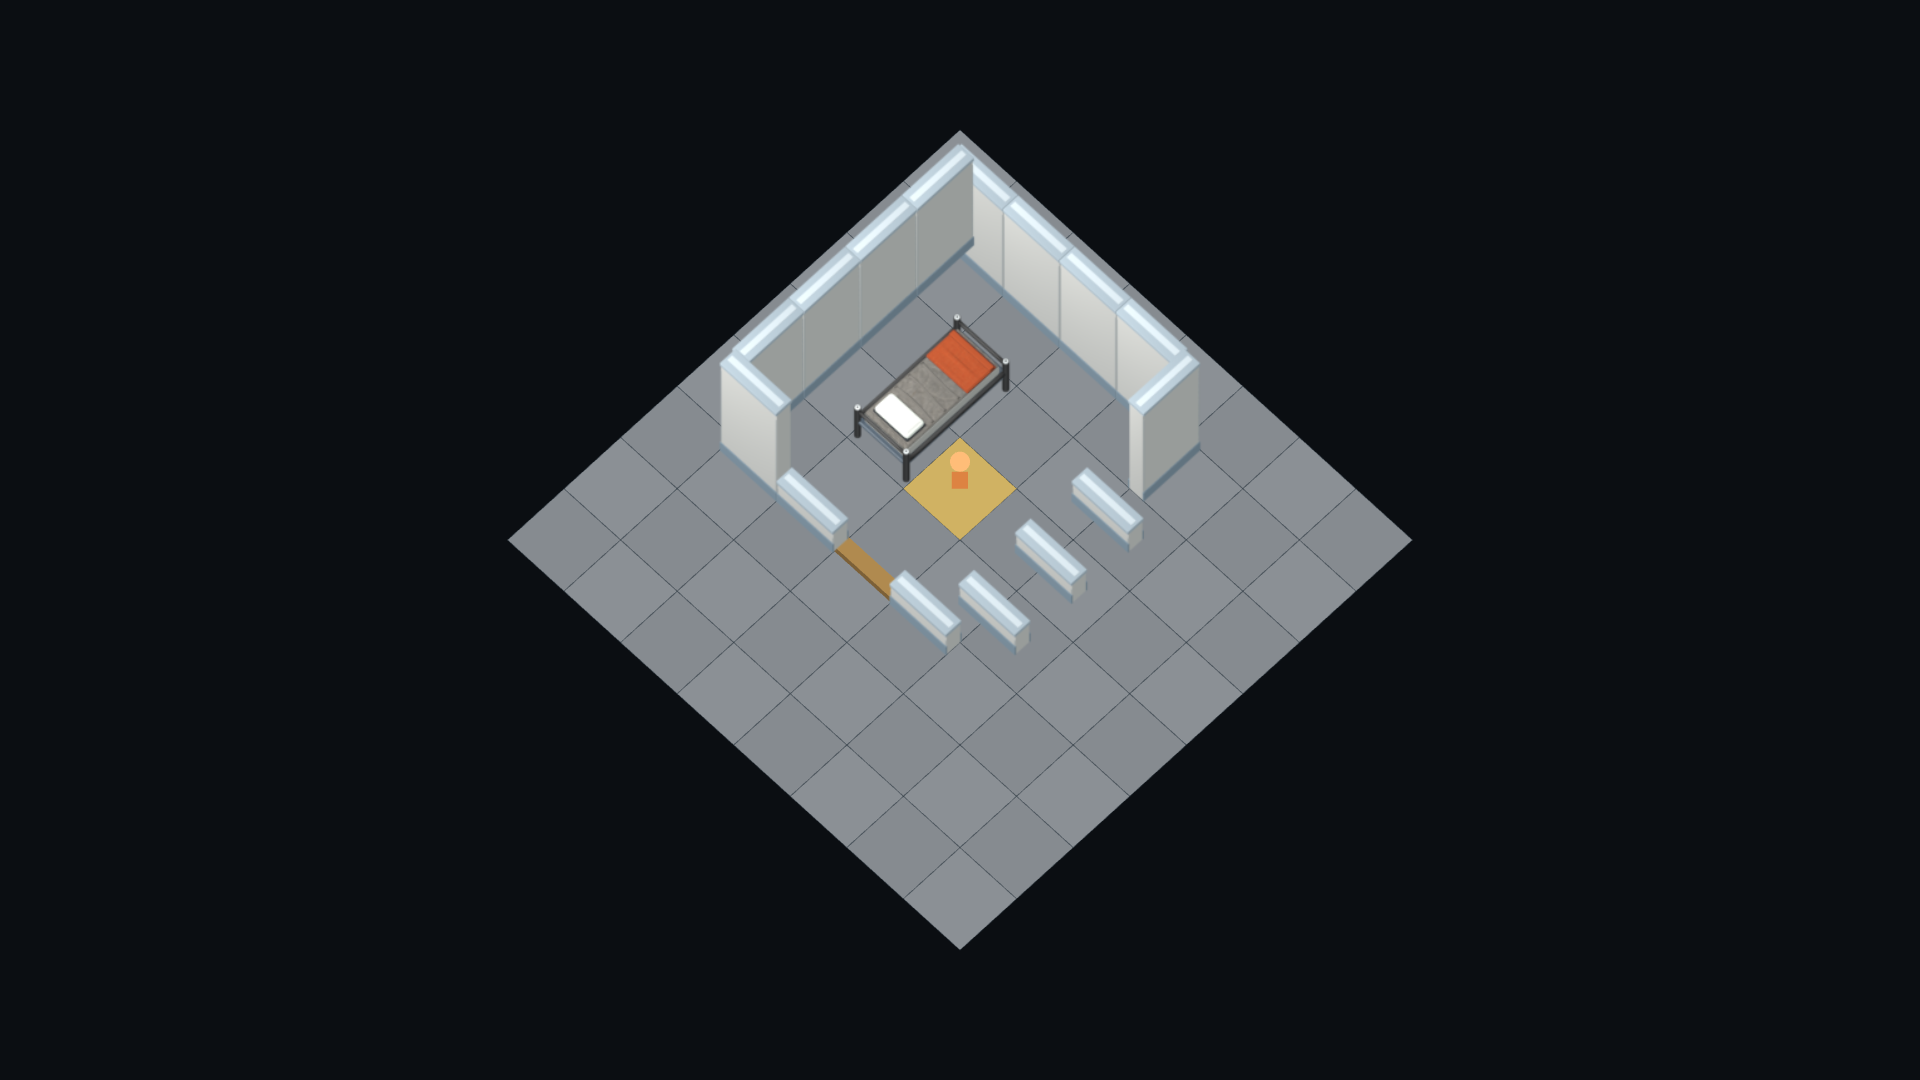
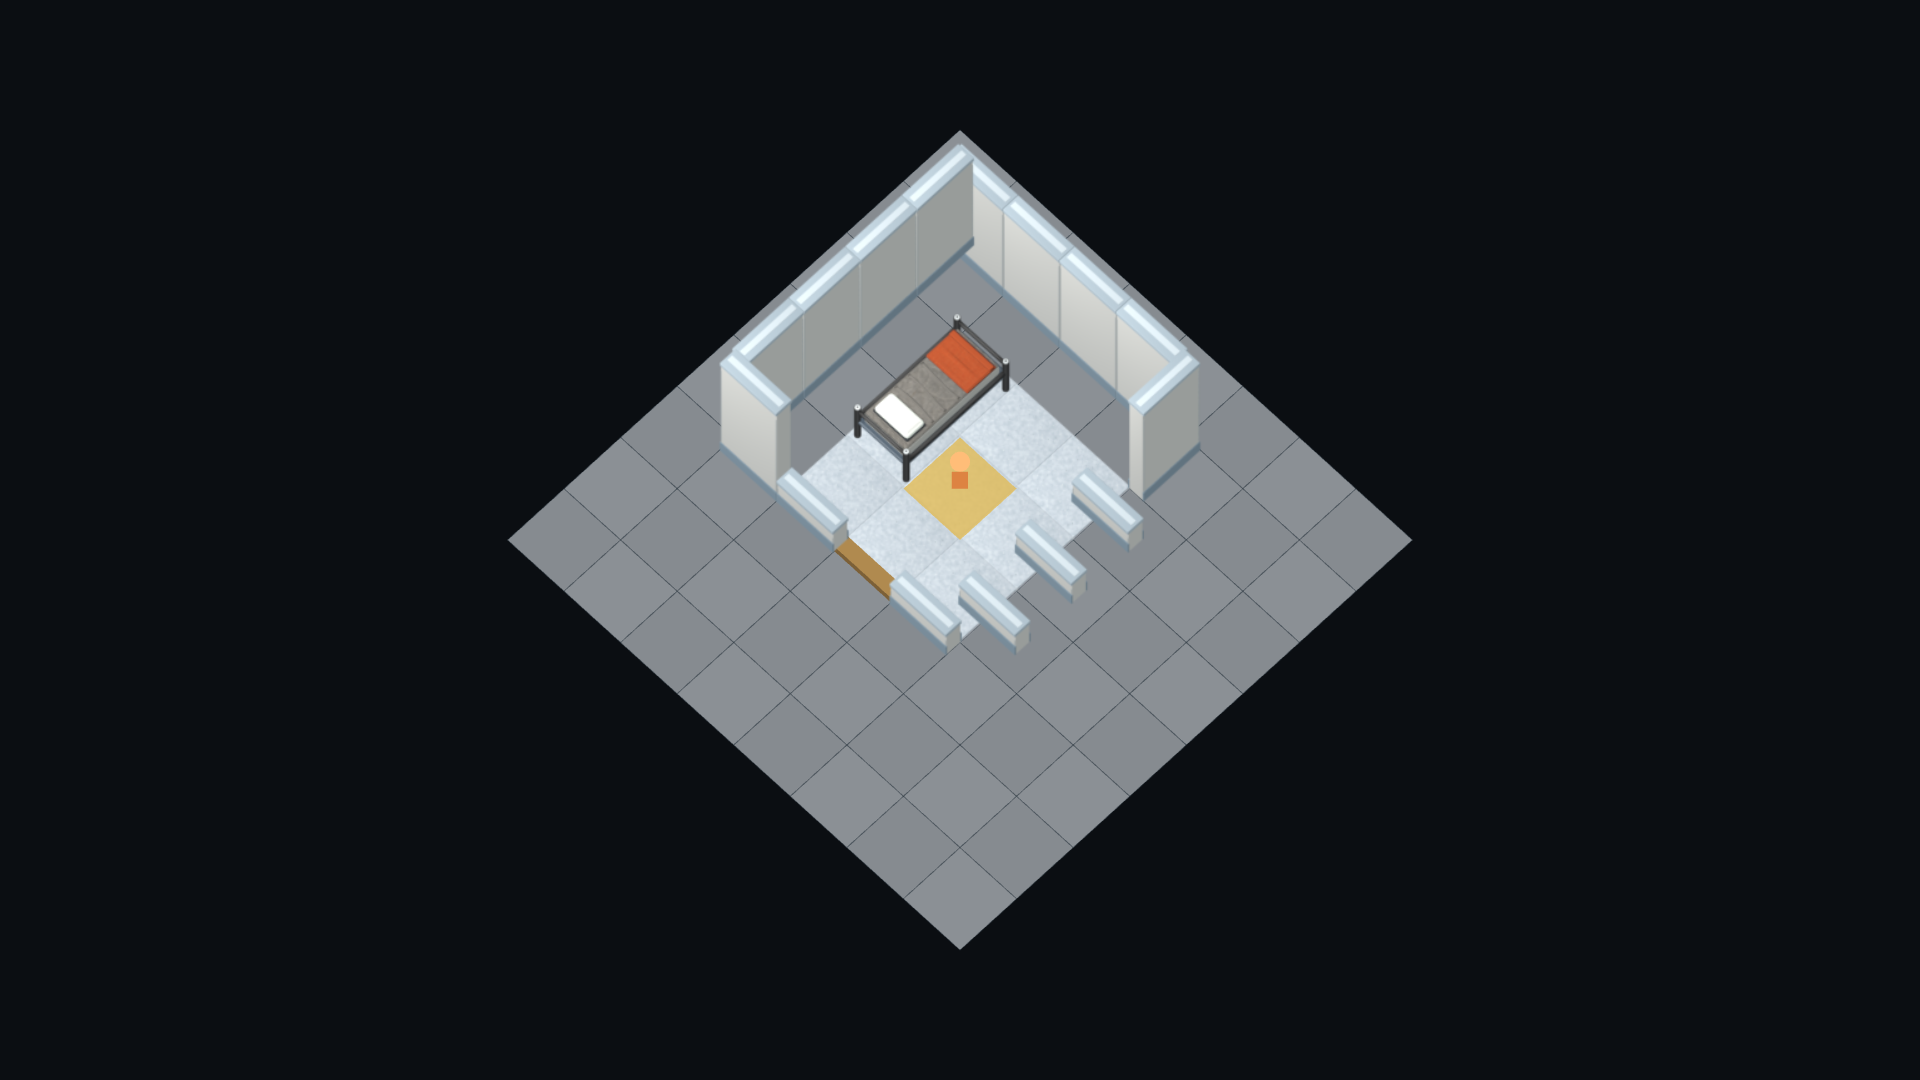
Render zoned cell and canteen Blender floors at camera angle

Changed region(s): [[0.4062, 0.3361, 0.5938, 0.5806]]

diff --git a/src/rendering/scene/oblique-world-scene.ts b/src/rendering/scene/oblique-world-scene.ts
@@ -58,6 +58,7 @@ export class ObliqueWorldScene extends Phaser.Scene {
   private groundPaints = 0;
   private raisedPaints = 0;
   private artImages: Phaser.GameObjects.Image[] = [];
+  private groundArtImages: Phaser.GameObjects.Image[] = [];
   private readonly pendingArtLoads = new Map<string, Promise<void>>();
   private readonly artLoadErrors: string[] = [];
 
@@ -137,7 +138,9 @@ export class ObliqueWorldScene extends Phaser.Scene {
   public get paintCounts(): { readonly ground: number; readonly raised: number } {
     return { ground: this.groundPaints, raised: this.raisedPaints };
   }
-  public get artTextureKeys(): readonly string[] { return this.artImages.map((item) => item.texture.key); }
+  public get artTextureKeys(): readonly string[] {
+    return [...this.groundArtImages, ...this.artImages].map((item) => item.texture.key);
+  }
   public get loadedArtTextureCount(): number {
     const keys = new Set<string>();
     for (const catalog of this.artCatalogs.values()) for (const frame of catalog.frames) {
@@ -172,6 +175,7 @@ export class ObliqueWorldScene extends Phaser.Scene {
       if (task === undefined) {
         task = ensureObliqueModuleFrameTexture(this, catalog, this.pose).then(() => {
           if (this.lastProjection !== undefined && this.scene.isActive()) {
+            this.paintGroundArt(this.lastProjection);
             this.paintRaised(this.lastProjection);
             this.paintArt(this.lastProjection);
           }
@@ -228,6 +232,28 @@ export class ObliqueWorldScene extends Phaser.Scene {
         const next = (side + 1) % 4;
         ground.lineBetween(tile.quad[side]!.x, tile.quad[side]!.y, tile.quad[next]!.x, tile.quad[next]!.y);
       }
+    }
+  }
+
+  private paintGroundArt(projection: ObliqueWorldProjection): void {
+    for (const image of this.groundArtImages) image.destroy();
+    this.groundArtImages = [];
+    for (const tile of projection.ground) {
+      if (tile.artAssetId === undefined) continue;
+      const catalog = this.artCatalogs.get(tile.artAssetId);
+      if (catalog === undefined) continue;
+      const frame = selectObliqueModuleFrame(catalog, this.pose);
+      if (!this.textures.exists(frame.image)) continue;
+      const anchor = {
+        x: tile.quad.reduce((sum, corner) => sum + corner.x, 0) / 4,
+        y: tile.quad.reduce((sum, corner) => sum + corner.y, 0) / 4,
+      };
+      const [width, height] = catalog.resolutionPx;
+      const [pivotX, pivotY] = catalog.pivotPx;
+      this.groundArtImages.push(this.add.image(anchor.x, anchor.y, frame.image)
+        .setOrigin(pivotX / width, pivotY / height)
+        .setScale(this.pose.zoom)
+        .setDepth(0.2));
     }
   }
 
@@ -339,6 +365,7 @@ export class ObliqueWorldScene extends Phaser.Scene {
       this.lastPaintedPoseRevision = this.poseRevision;
       this.rememberActors(frame.actors);
       this.paintGround(projection);
+      this.paintGroundArt(projection);
       this.paintSelection();
       this.paintRaised(projection);
       this.paintArt(projection);

diff --git a/tests/browser/oblique-world-harness.spec.ts b/tests/browser/oblique-world-harness.spec.ts
@@ -11,7 +11,8 @@ test('real render feed cell keeps one build square under the cursor while the sc
   expect(loadedArt.some((key) => key.includes('wall-module-west-full'))).toBe(true);
   expect(loadedArt.some((key) => key.includes('cell-door-open'))).toBe(true);
   expect(loadedArt.some((key) => key.includes('cell-bed'))).toBe(true);
-  expect(await page.evaluate(() => window.lockstateObliqueWorldHarness.loadedArtTextureCount())).toBeLessThanOrEqual(8);
+  expect(loadedArt.some((key) => key.includes('floor-cell'))).toBe(true);
+  expect(await page.evaluate(() => window.lockstateObliqueWorldHarness.loadedArtTextureCount())).toBeLessThanOrEqual(11);
   let previousGroundPaints = 0;
   for (const [yaw, elevation] of [[-45, 25], [0, 45], [45, 65]] as const) {
     await page.evaluate(([y, e]) => window.lockstateObliqueWorldHarness.setPose(y, e), [yaw, elevation] as const);
@@ -38,5 +39,5 @@ test('real render feed cell keeps one build square under the cursor while the sc
     expect(await page.evaluate(() => window.lockstateObliqueWorldHarness.paintCounts())).toEqual(painted);
     await page.screenshot({ path: testInfo.outputPath(`render-feed-yaw${yaw}-elev${elevation}-fullhd.png`) });
   }
-  expect(await page.evaluate(() => window.lockstateObliqueWorldHarness.loadedArtTextureCount())).toBeLessThan(40);
+  expect(await page.evaluate(() => window.lockstateObliqueWorldHarness.loadedArtTextureCount())).toBeLessThan(50);
 });

diff --git a/src/rendering/camera/oblique-world-projection.ts b/src/rendering/camera/oblique-world-projection.ts
@@ -14,7 +14,7 @@ import { TILE_SIZE_PX, tileRangeContains, visibleTileRange } from '../tile-metri
 import { groundToScreen, visibleGroundBounds, type ObliqueCameraState } from './oblique-projection';
 import { obliqueDepthForAnchor, projectedRectPrism, projectedTileQuad, type TileQuad } from './oblique-geometry';
 import type { Point } from './coordinates';
-import { artForNorthEdge, artForWestEdge, artForStructure } from './oblique-art-mapping';
+import { artForGround, artForNorthEdge, artForWestEdge, artForStructure } from './oblique-art-mapping';
 
 export interface ObliqueGroundTile {
   readonly tileX: number;
@@ -23,6 +23,7 @@ export interface ObliqueGroundTile {
   readonly fill: number;
   readonly zoningTint: number | undefined;
   readonly owned: boolean;
+  readonly artAssetId: string | undefined;
 }
 
 export interface ObliqueSolid {
@@ -123,6 +124,7 @@ export function projectObliqueWorldFrame(frame: RenderFrame, camera: ObliqueCame
           tileX, tileY, quad: projectedTileQuad(tileX, tileY, camera),
           fill: (tileX + tileY) % 2 === 0 ? terrain.fill : terrain.fillAlternate,
           zoningTint: zoningTint(sample.zoning), owned: sample.owned,
+          artAssetId: artForGround(sample.zoning),
         });
         if (sample.topEdge !== 0) edge('north-edge', tileX, tileY, sample.topEdge);
         if (sample.leftEdge !== 0) edge('west-edge', tileX, tileY, sample.leftEdge);

diff --git a/src/rendering/camera/oblique-art-mapping.ts b/src/rendering/camera/oblique-art-mapping.ts
@@ -1,5 +1,6 @@
 import { DOOR_EDGE_NUMERIC_ID, WALL_EDGE_NUMERIC_ID } from '../../simulation/construction/definition';
 import { catalogueObjectId } from '../world/structures';
+import { defaultRoomContentRegistry } from '../../content/room-catalog';
 
 /** Authored modules currently match a north edge or a catalogued object origin. */
 const NORTH_EDGE_ART: ReadonlyMap<number, string> = new Map([
@@ -13,6 +14,16 @@ const OBJECT_ART: Readonly<Record<string, string>> = {
   'object.storage-rack': 'furniture.storage.rack.wooden',
   'object.chair': 'furniture.chair.wooden',
 };
+
+const ROOM_FLOOR_ART: Readonly<Record<string, string>> = {
+  'room.cell': 'floor.cell.sealed-concrete',
+  'room.canteen': 'floor.canteen.terrazzo',
+};
+
+export function artForGround(zoningNumericId: number): string | undefined {
+  const room = defaultRoomContentRegistry.getByNumericId(zoningNumericId);
+  return room === undefined ? undefined : ROOM_FLOOR_ART[room.id];
+}
 
 export function artForNorthEdge(edgeNumericId: number): string | undefined {
   return NORTH_EDGE_ART.get(edgeNumericId);

diff --git a/tests/browser/oblique-world-harness.ts b/tests/browser/oblique-world-harness.ts
@@ -32,6 +32,9 @@ world.setOwned(origin, true);
 for (let y = 0; y < 8; y += 1) {
   for (let x = 0; x < 8; x += 1) world.setTerrain(tile(x, y), 'concrete');
 }
+for (let y = 2; y <= 4; y += 1) {
+  for (let x = 2; x <= 4; x += 1) world.setZoning(tile(x, y), 1);
+}
 for (let x = 1; x <= 4; x += 1) {
   world.setTopEdge(tile(x, 1), 1);
   world.setTopEdge(tile(x, 5), x === 3 ? 2 : 1);

diff --git a/docs/design/2026-09-28-adjustable-camera/README.md b/docs/design/2026-09-28-adjustable-camera/README.md
@@ -142,7 +142,9 @@ rather than the frame-cost acceptance test for a large prison.
 ## First Blender modules inside the actual scene
 
 The composition branch joins the camera scene to authored north and west wall,
-cutaway wall, open-door, bed, toilet, rack and chair modules. Its browser fixture loads the real
+cutaway wall, open-door, bed, toilet, rack and chair modules. Cell and canteen
+zoning select their matching Blender floor tile, while unzoned ground retains
+the baseline terrain appearance. Its browser fixture loads the real
 content-hashed PNGs and checks that each camera pose chooses the matching bed
 frame. It renders the same immutable world and selected square as above:
 
@@ -158,7 +160,7 @@ browser mutation that reversed the near-wall depth comparison cut the far
 wall instead and failed the test; restoration passed. Authored cutaway art now
 replaces nearby wall geometry at the selected camera pose. Door cutaways still
 use geometry. The scene loads only the needed camera frames into Phaser's
-texture cache. Actors and floors have not reached final art quality. Depth and
+texture cache. Actors and unzoned ground have not reached final art quality. Depth and
 asset loading must be measured on a much larger prison before replacing the
 current player view.
 
